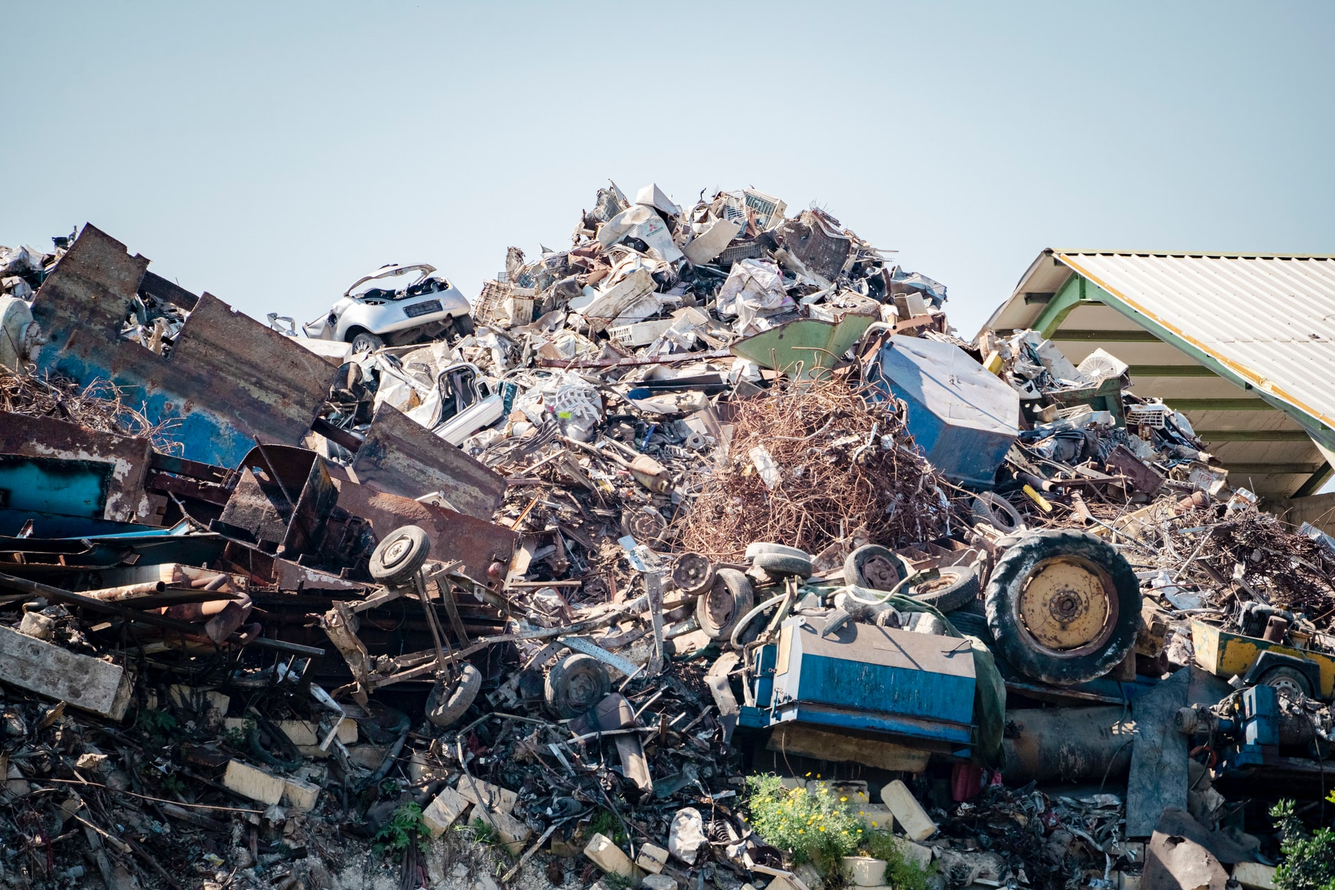
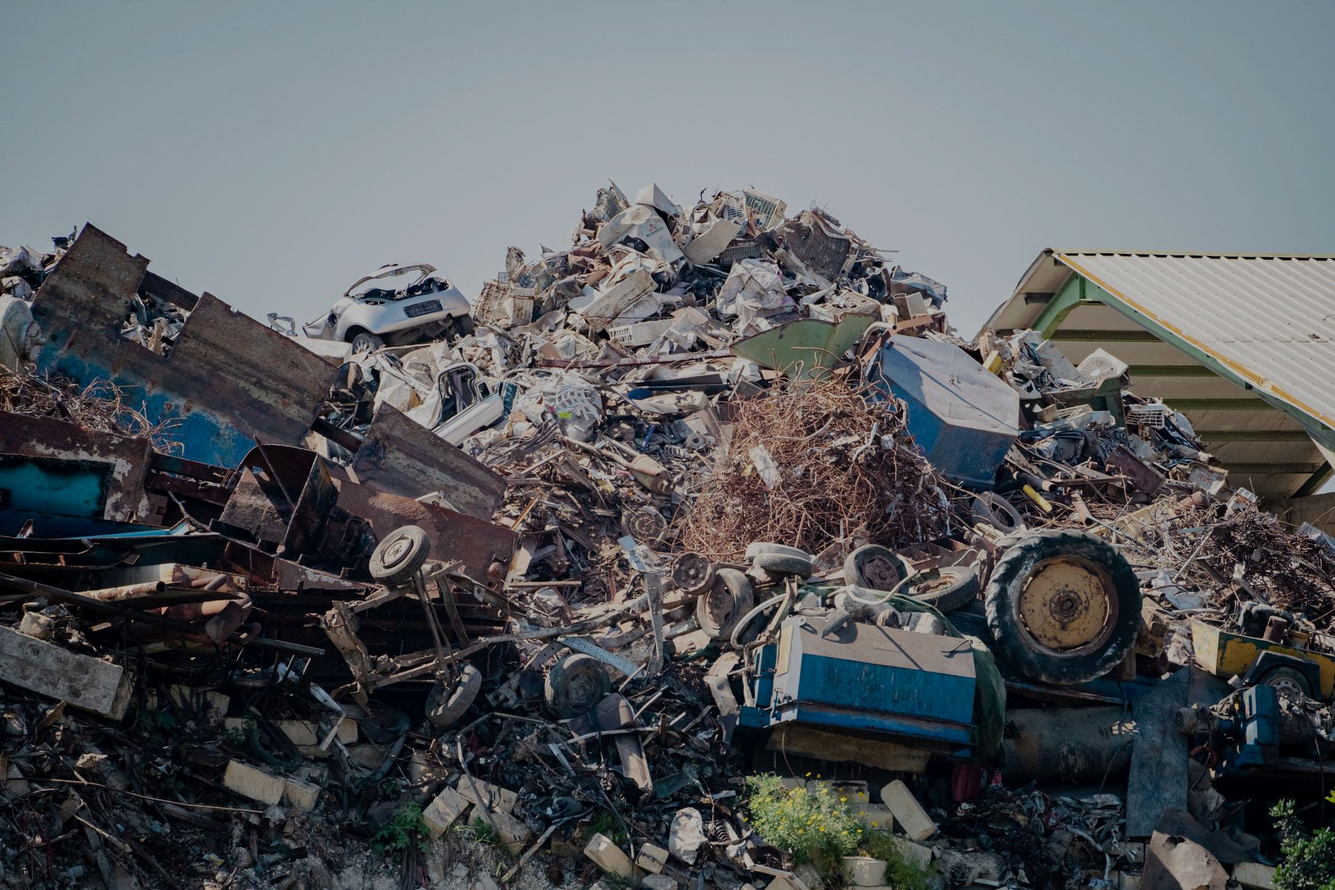
Movimientos finales de index y nosotros

diff --git a/pages/index.jsx b/pages/index.jsx
@@ -40,23 +40,34 @@ export default function Home() {
             w={["100%", "100%", "50%", "50%"]}
             h={["50%", "50%", "100%", "100%"]}
             spacing={4}
-            justifyContent={["flex-end", "flex-end", "center", "center"]}
+            justifyContent={["end", "end", "center", "center"]}
             pb="30px"
-            background="rgba(0,0,0,0.4)"
-            borderRadius="30%"
           >
-            <Text fontSize="3xl" color="white" align="center" fontWeight="bold">
+            <Text fontSize="5xl" color="white" align="center" fontWeight="bold">
               Reciclaje y gestion integral de residuos
             </Text>
             <NextLink href="/contacto" passHref>
-              <Button as="a" colorScheme="green" color="white" variant="solid">
+              <Button
+                as="a"
+                size="lg"
+                colorScheme="green"
+                color="white"
+                variant="solid"
+                p="5px"
+              >
                 CONACTA CON NOSOTROS
               </Button>
             </NextLink>
           </VStack>
         </Flex>
         {/* Descripcion corta */}
-        <Flex flexDir="row" h="auto" p="30px" bgColor="green.500" w="100%">
+        <Flex
+          flexDir="row"
+          h={["auto", "500px", "500px", "500px"]}
+          p="30px"
+          bgColor="green.500"
+          w="100%"
+        >
           <Spacer />
           <VStack
             w={["95%", "80%", "70%", "60%"]}
@@ -65,15 +76,16 @@ export default function Home() {
             spacing={4}
           >
             <Text
-              fontSize={["12px", "14px", "16px", "18px"]}
+              fontSize={["2xl", "2xl", "3xl", "3xl"]}
               color="white"
               align="center"
               w="100%"
+              pb="50px"
             >
               Sobre nosotros
             </Text>
             <Text
-              fontSize={["16px", "18px", "20px", "22px"]}
+              fontSize={["lg", "lg", "lg", "lg"]}
               color="white"
               align="center"
               fontWeight="bold"
@@ -182,13 +194,15 @@ export default function Home() {
           </Center>
           <Flex flexDir={["column", "column", "row", "row"]} w="100%" h="auto">
             <VStack w="100%" align="center" pt="50px" spacing={3}>
-              <Image
-                src="/assets/materialReciclable.jpg"
-                w="150px"
-                h="150px"
-                overflow="hidden"
-                borderRadius="100%"
-              />
+              <a href="/servicios" passHref>
+                <Image
+                  src="/assets/materialReciclable.jpg"
+                  w="150px"
+                  h="150px"
+                  overflow="hidden"
+                  borderRadius="100%"
+                />
+              </a>
               <Text
                 w="80%"
                 h="100px"
@@ -209,13 +223,15 @@ export default function Home() {
               </NextLink>
             </VStack>
             <VStack w="100%" align="center" pt="50px" spacing={3}>
-              <Image
-                src="/assets/basura.jpg"
-                w="150px"
-                h="150px"
-                overflow="hidden"
-                borderRadius="100%"
-              />
+              <a href="/servicios" passHref>
+                <Image
+                  src="/assets/basura.jpg"
+                  w="150px"
+                  h="150px"
+                  overflow="hidden"
+                  borderRadius="100%"
+                />
+              </a>
               <Text
                 w="80%"
                 h="100px"
@@ -223,7 +239,7 @@ export default function Home() {
                 fontSize="20px"
                 fontWeight="black"
               >
-                Recolección de basura
+                Gestión de residuos
               </Text>
               <NextLink href="/servicios" passHref>
                 <IconButton
@@ -236,13 +252,15 @@ export default function Home() {
               </NextLink>
             </VStack>
             <VStack w="100%" align="center" pt="50px" spacing={3}>
-              <Image
-                src="/assets/llantas.jpg"
-                w="150px"
-                h="150px"
-                overflow="hidden"
-                borderRadius="100%"
-              />
+              <a href="/servicios" passHref>
+                <Image
+                  src="/assets/papelOficina.jpg"
+                  w="150px"
+                  h="150px"
+                  overflow="hidden"
+                  borderRadius="100%"
+                />
+              </a>
               <Text
                 w="80%"
                 h="100px"
@@ -250,7 +268,7 @@ export default function Home() {
                 fontSize="20px"
                 fontWeight="black"
               >
-                Retiro de llantas
+                Destrucción de papeleria fiscal
               </Text>
               <NextLink href="/servicios" passHref>
                 <IconButton
@@ -263,13 +281,15 @@ export default function Home() {
               </NextLink>
             </VStack>
             <VStack w="100%" align="center" pt="50px" spacing={3}>
-              <Image
-                src="/assets/papelOficina.jpg"
-                w="150px"
-                h="150px"
-                overflow="hidden"
-                borderRadius="100%"
-              />
+              <a href="/servicios" passHref>
+                <Image
+                  src="/assets/contenedor.jpg"
+                  w="150px"
+                  h="150px"
+                  overflow="hidden"
+                  borderRadius="100%"
+                />
+              </a>
               <Text
                 w="80%"
                 h="100px"
@@ -277,7 +297,36 @@ export default function Home() {
                 fontSize="20px"
                 fontWeight="black"
               >
-                Recolección de papeleria fiscal
+                Renta de contenedores
+              </Text>
+              <NextLink href="/servicios" passHref>
+                <IconButton
+                  as="a"
+                  fontSize="2xl"
+                  bgColor="transparent"
+                  color="green.500"
+                  icon={<FaArrowAltCircleRight />}
+                />
+              </NextLink>
+            </VStack>
+            <VStack w="100%" align="center" pt="50px" spacing={3}>
+              <a href="/servicios" passHref>
+                <Image
+                  src="/assets/plantaReciclaje.jpg"
+                  w="150px"
+                  h="150px"
+                  overflow="hidden"
+                  borderRadius="100%"
+                />
+              </a>
+              <Text
+                w="80%"
+                h="100px"
+                align="center"
+                fontSize="20px"
+                fontWeight="black"
+              >
+                Apoyo en programas de reciclado
               </Text>
               <NextLink href="/servicios" passHref>
                 <IconButton

diff --git a/pages/nosotros.jsx b/pages/nosotros.jsx
@@ -72,7 +72,7 @@ export default function Nosotros() {
         {/* Historia */}
         <Flex
           flexDir="column"
-          w="80%"
+          w={["100%", "100%", "80%", "80%"]}
           h="auto"
           p="40px 20px"
           align="center"
@@ -97,7 +97,7 @@ export default function Nosotros() {
         {/* Mision */}
         <Flex
           flexDir={["column", "column", "row", "row"]}
-          w="100%"
+          w={["100%", "100%", "90%", "90%"]}
           h="auto"
           mb="50px"
         >

diff --git a/components/mainLayout.jsx b/components/mainLayout.jsx
@@ -185,7 +185,7 @@ function Footer({ children }) {
     <Flex flexDir="row" bgColor="green.500" h="100px" w="100%">
       <Spacer />
       <Center w="60%">
-        <Text fontSize="sm" color="white" align="center">
+        <Text fontSize={["md", "md", "lg", "lg"]} color="white" align="center">
           Reciclaje de la Costa <br />
           Calle 24 #30, Lib. Tapeixtle, 28239 Manzanillo, Col. <br />
           Tel. 314 334 8888
